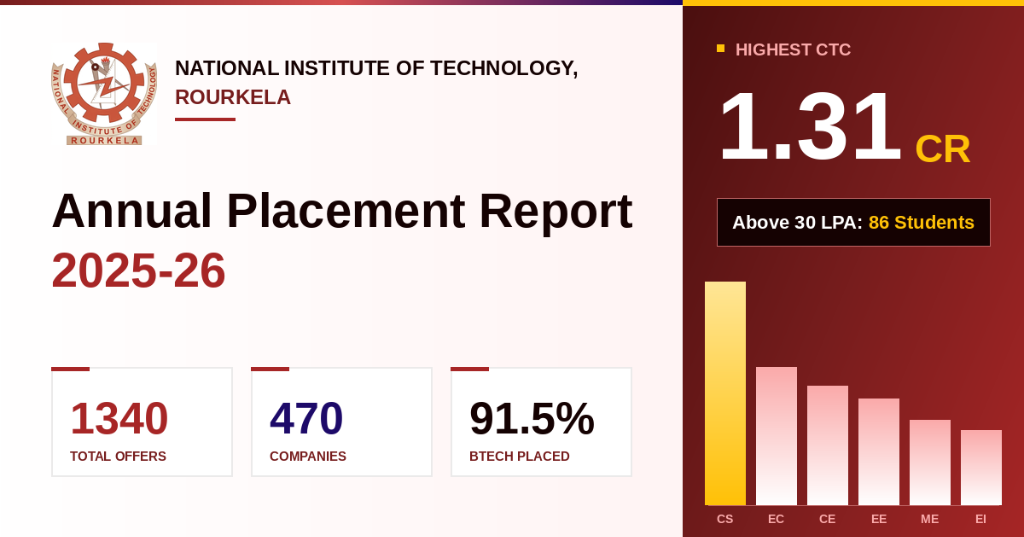
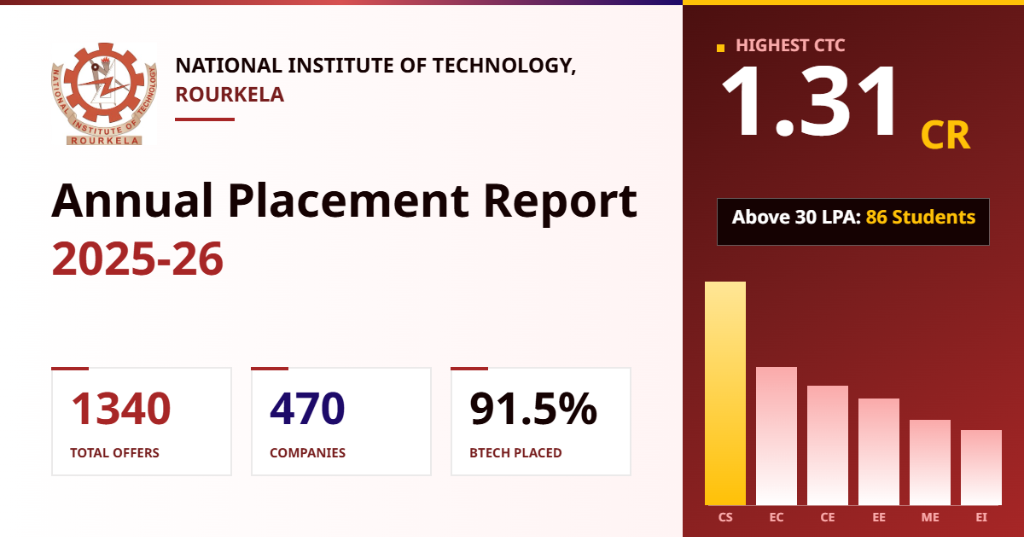
Update placement report thumbnail and replace placement dashboard with version 4

diff --git a/nitrkl/nitr_placement_dashboard.html b/nitrkl/nitr_placement_dashboard.html
@@ -4,11 +4,30 @@
     <meta charset="UTF-8">
     <meta name="viewport" content="width=device-width, initial-scale=1.0">
     <title>NIT Rourkela - Placement Report 2025-26</title>
+
+    <!-- Page thumbnail / link preview -->
+    <meta name="description" content="NIT Rourkela Annual Placement Report 2025-26: highest CTC 1.31 CR, 1340 offers, 470 companies, 91.5% BTech placed.">
+    <meta name="theme-color" content="#771D1D">
[1 lines of base64/hex data omitted]
+
+    <meta property="og:type" content="website">
+    <meta property="og:title" content="NIT Rourkela - Annual Placement Report 2025-26">
+    <meta property="og:description" content="Highest CTC 1.31 CR | 1340 offers | 470 companies | 91.5% BTech placed">
+    <!-- IMPORTANT: once hosted, change this to the full URL, e.g. https://your-site.com/thumbnail.png (link previews need an absolute URL) -->
+    <meta property="og:image" content="thumbnail.png">
+    <meta property="og:image:width" content="1200">
+    <meta property="og:image:height" content="630">
+    <meta property="og:image:alt" content="NIT Rourkela Annual Placement Report 2025-26 with highest CTC 1.31 CR">
+
+    <meta name="twitter:card" content="summary_large_image">
+    <meta name="twitter:title" content="NIT Rourkela - Annual Placement Report 2025-26">
+    <meta name="twitter:description" content="Highest CTC 1.31 CR | 1340 offers | 470 companies | 91.5% BTech placed">
+    <meta name="twitter:image" content="thumbnail.png">
     
-    <!-- Typography: Manrope (UI) + Sora (numbers) -->
+    <!-- Typography: Noto Sans everywhere -->
     <link rel="preconnect" href="https://fonts.googleapis.com">
     <link rel="preconnect" href="https://fonts.gstatic.com" crossorigin>
-    <link rel="stylesheet" href="https://fonts.googleapis.com/css2?family=Manrope:wght@400;500;600;700;800&family=Sora:wght@600;700;800&display=swap">
+    <link rel="stylesheet" href="https://fonts.googleapis.com/css2?family=Noto+Sans:wght@400;500;600;700;800&display=swap">
 
     <!-- Tailwind CSS -->
     <script src="https://cdn.tailwindcss.com"></script>
@@ -24,7 +43,7 @@
             theme: {
                 extend: {
                     fontFamily: {
-                        sans: ['Manrope', 'Arial', 'Helvetica', 'sans-serif'],
+                        sans: ['Noto Sans', 'Arial', 'Helvetica', 'sans-serif'],
                     },
                     colors: {
                         'inclusive': '#FFFFFF',
@@ -69,6 +88,7 @@
         * { border-radius: 0 !important; }
 
         html { scroll-behavior: smooth; }
+        html, body, button, input, select, textarea { font-family: 'Noto Sans', Arial, Helvetica, sans-serif; }
 
         body {
             background-color: #F8F6F6;
@@ -143,7 +163,7 @@
 
         /* numbers */
         .corp-card h4, [data-count] {
-            font-family: 'Sora', 'Manrope', Arial, sans-serif;
+            font-family: 'Noto Sans', Arial, sans-serif;
             font-variant-numeric: tabular-nums;
             letter-spacing: -0.02em;
         }
@@ -230,13 +250,15 @@
 
     <div id="scrollProgress" aria-hidden="true"></div>
 
-    <!-- Return to NIT Rourkela Main Portal -->
-    <div style="background-color: #150202; color: #ffffff; padding: 10px 24px; font-size: 13px; font-weight: 600; display: flex; justify-content: space-between; align-items: center; border-bottom: 2px solid #771D1D;">
-        <a href="index.html" style="color: #FFC107; text-decoration: none; display: inline-flex; align-items: center; gap: 8px;">
-            <i class="fa-solid fa-arrow-left"></i> Return to NIT Rourkela Main Portal
+    <!-- Top Return Navigation Bar -->
+    <div class="w-full bg-[#771D1D] text-white px-4 py-2 flex items-center justify-between shadow-md" style="z-index: 9999; position: relative;">
+        <a href="index.html" class="inline-flex items-center gap-2 text-white hover:text-[#FFC107] font-semibold text-sm transition-colors duration-200">
+            <i class="fa-solid fa-arrow-left"></i>
+            <span>Return to NIT Rourkela Main Portal</span>
         </a>
-        <span style="color: #EBEAEA; opacity: 0.85; font-size: 12px;">Centre for Career Development (CDC) &bull; Annual Placement Report 2025-26</span>
+        <span class="text-xs text-white/80 hidden sm:inline">National Institute of Technology Rourkela &bull; Placement Portal</span>
     </div>
+
 
     <!-- Header Section -->
     <header class="border-b border-linen w-full bg-inclusive">
@@ -446,7 +468,7 @@
         document.addEventListener('DOMContentLoaded', function() {
             // Apply strict color palette to Chart.js global defaults
             Chart.defaults.color = '#150202'; // Deep Earthy Brown
-            Chart.defaults.font.family = "'Manrope', 'Arial', 'Helvetica', sans-serif";
+            Chart.defaults.font.family = "'Noto Sans', 'Arial', 'Helvetica', sans-serif";
             Chart.defaults.font.weight = 'bold';
             
             // Tooltip styling strictly sharp and corporate
@@ -512,7 +534,7 @@
                         const txt = (v * prog).toFixed(Number.isInteger(v) ? 0 : 1);
                         ctx.globalAlpha = Math.pow(prog, 2);
                         ctx.fillStyle = '#150202';
-                        ctx.font = "800 11px 'Sora', 'Manrope', Arial, sans-serif";
+                        ctx.font = "800 11px 'Noto Sans', Arial, sans-serif";
                         ctx.textAlign = 'center';
                         ctx.textBaseline = 'bottom';
                         ctx.fillText(txt, bar.x, bar.y - 6);

diff --git a/nitrkl/placement-report.html b/nitrkl/placement-report.html
@@ -4,11 +4,30 @@
     <meta charset="UTF-8">
     <meta name="viewport" content="width=device-width, initial-scale=1.0">
     <title>NIT Rourkela - Placement Report 2025-26</title>
+
+    <!-- Page thumbnail / link preview -->
+    <meta name="description" content="NIT Rourkela Annual Placement Report 2025-26: highest CTC 1.31 CR, 1340 offers, 470 companies, 91.5% BTech placed.">
+    <meta name="theme-color" content="#771D1D">
[1 lines of base64/hex data omitted]
+
+    <meta property="og:type" content="website">
+    <meta property="og:title" content="NIT Rourkela - Annual Placement Report 2025-26">
+    <meta property="og:description" content="Highest CTC 1.31 CR | 1340 offers | 470 companies | 91.5% BTech placed">
+    <!-- IMPORTANT: once hosted, change this to the full URL, e.g. https://your-site.com/thumbnail.png (link previews need an absolute URL) -->
+    <meta property="og:image" content="thumbnail.png">
+    <meta property="og:image:width" content="1200">
+    <meta property="og:image:height" content="630">
+    <meta property="og:image:alt" content="NIT Rourkela Annual Placement Report 2025-26 with highest CTC 1.31 CR">
+
+    <meta name="twitter:card" content="summary_large_image">
+    <meta name="twitter:title" content="NIT Rourkela - Annual Placement Report 2025-26">
+    <meta name="twitter:description" content="Highest CTC 1.31 CR | 1340 offers | 470 companies | 91.5% BTech placed">
+    <meta name="twitter:image" content="thumbnail.png">
     
-    <!-- Typography: Manrope (UI) + Sora (numbers) -->
+    <!-- Typography: Noto Sans everywhere -->
     <link rel="preconnect" href="https://fonts.googleapis.com">
     <link rel="preconnect" href="https://fonts.gstatic.com" crossorigin>
-    <link rel="stylesheet" href="https://fonts.googleapis.com/css2?family=Manrope:wght@400;500;600;700;800&family=Sora:wght@600;700;800&display=swap">
+    <link rel="stylesheet" href="https://fonts.googleapis.com/css2?family=Noto+Sans:wght@400;500;600;700;800&display=swap">
 
     <!-- Tailwind CSS -->
     <script src="https://cdn.tailwindcss.com"></script>
@@ -24,7 +43,7 @@
             theme: {
                 extend: {
                     fontFamily: {
-                        sans: ['Manrope', 'Arial', 'Helvetica', 'sans-serif'],
+                        sans: ['Noto Sans', 'Arial', 'Helvetica', 'sans-serif'],
                     },
                     colors: {
                         'inclusive': '#FFFFFF',
@@ -69,6 +88,7 @@
         * { border-radius: 0 !important; }
 
         html { scroll-behavior: smooth; }
+        html, body, button, input, select, textarea { font-family: 'Noto Sans', Arial, Helvetica, sans-serif; }
 
         body {
             background-color: #F8F6F6;
@@ -143,7 +163,7 @@
 
         /* numbers */
         .corp-card h4, [data-count] {
-            font-family: 'Sora', 'Manrope', Arial, sans-serif;
+            font-family: 'Noto Sans', Arial, sans-serif;
             font-variant-numeric: tabular-nums;
             letter-spacing: -0.02em;
         }
@@ -230,13 +250,15 @@
 
     <div id="scrollProgress" aria-hidden="true"></div>
 
-    <!-- Return to NIT Rourkela Main Portal -->
-    <div style="background-color: #150202; color: #ffffff; padding: 10px 24px; font-size: 13px; font-weight: 600; display: flex; justify-content: space-between; align-items: center; border-bottom: 2px solid #771D1D;">
-        <a href="index.html" style="color: #FFC107; text-decoration: none; display: inline-flex; align-items: center; gap: 8px;">
-            <i class="fa-solid fa-arrow-left"></i> Return to NIT Rourkela Main Portal
+    <!-- Top Return Navigation Bar -->
+    <div class="w-full bg-[#771D1D] text-white px-4 py-2 flex items-center justify-between shadow-md" style="z-index: 9999; position: relative;">
+        <a href="index.html" class="inline-flex items-center gap-2 text-white hover:text-[#FFC107] font-semibold text-sm transition-colors duration-200">
+            <i class="fa-solid fa-arrow-left"></i>
+            <span>Return to NIT Rourkela Main Portal</span>
         </a>
-        <span style="color: #EBEAEA; opacity: 0.85; font-size: 12px;">Centre for Career Development (CDC) &bull; Annual Placement Report 2025-26</span>
+        <span class="text-xs text-white/80 hidden sm:inline">National Institute of Technology Rourkela &bull; Placement Portal</span>
     </div>
+
 
     <!-- Header Section -->
     <header class="border-b border-linen w-full bg-inclusive">
@@ -446,7 +468,7 @@
         document.addEventListener('DOMContentLoaded', function() {
             // Apply strict color palette to Chart.js global defaults
             Chart.defaults.color = '#150202'; // Deep Earthy Brown
-            Chart.defaults.font.family = "'Manrope', 'Arial', 'Helvetica', sans-serif";
+            Chart.defaults.font.family = "'Noto Sans', 'Arial', 'Helvetica', sans-serif";
             Chart.defaults.font.weight = 'bold';
             
             // Tooltip styling strictly sharp and corporate
@@ -512,7 +534,7 @@
                         const txt = (v * prog).toFixed(Number.isInteger(v) ? 0 : 1);
                         ctx.globalAlpha = Math.pow(prog, 2);
                         ctx.fillStyle = '#150202';
-                        ctx.font = "800 11px 'Sora', 'Manrope', Arial, sans-serif";
+                        ctx.font = "800 11px 'Noto Sans', Arial, sans-serif";
                         ctx.textAlign = 'center';
                         ctx.textBaseline = 'bottom';
                         ctx.fillText(txt, bar.x, bar.y - 6);

diff --git a/dump/nitr_placement_dashboard (4).html b/dump/nitr_placement_dashboard (4).html
@@ -4,11 +4,30 @@
     <meta charset="UTF-8">
     <meta name="viewport" content="width=device-width, initial-scale=1.0">
     <title>NIT Rourkela - Placement Report 2025-26</title>
+
+    <!-- Page thumbnail / link preview -->
+    <meta name="description" content="NIT Rourkela Annual Placement Report 2025-26: highest CTC 1.31 CR, 1340 offers, 470 companies, 91.5% BTech placed.">
+    <meta name="theme-color" content="#771D1D">
[1 lines of base64/hex data omitted]
+
+    <meta property="og:type" content="website">
+    <meta property="og:title" content="NIT Rourkela - Annual Placement Report 2025-26">
+    <meta property="og:description" content="Highest CTC 1.31 CR | 1340 offers | 470 companies | 91.5% BTech placed">
+    <!-- IMPORTANT: once hosted, change this to the full URL, e.g. https://your-site.com/thumbnail.png (link previews need an absolute URL) -->
+    <meta property="og:image" content="thumbnail.png">
+    <meta property="og:image:width" content="1200">
+    <meta property="og:image:height" content="630">
+    <meta property="og:image:alt" content="NIT Rourkela Annual Placement Report 2025-26 with highest CTC 1.31 CR">
+
+    <meta name="twitter:card" content="summary_large_image">
+    <meta name="twitter:title" content="NIT Rourkela - Annual Placement Report 2025-26">
+    <meta name="twitter:description" content="Highest CTC 1.31 CR | 1340 offers | 470 companies | 91.5% BTech placed">
+    <meta name="twitter:image" content="thumbnail.png">
     
-    <!-- Typography: Manrope (UI) + Sora (numbers) -->
+    <!-- Typography: Noto Sans everywhere -->
     <link rel="preconnect" href="https://fonts.googleapis.com">
     <link rel="preconnect" href="https://fonts.gstatic.com" crossorigin>
-    <link rel="stylesheet" href="https://fonts.googleapis.com/css2?family=Manrope:wght@400;500;600;700;800&family=Sora:wght@600;700;800&display=swap">
+    <link rel="stylesheet" href="https://fonts.googleapis.com/css2?family=Noto+Sans:wght@400;500;600;700;800&display=swap">
 
     <!-- Tailwind CSS -->
     <script src="https://cdn.tailwindcss.com"></script>
@@ -24,7 +43,7 @@
             theme: {
                 extend: {
                     fontFamily: {
-                        sans: ['Manrope', 'Arial', 'Helvetica', 'sans-serif'],
+                        sans: ['Noto Sans', 'Arial', 'Helvetica', 'sans-serif'],
                     },
                     colors: {
                         'inclusive': '#FFFFFF',
@@ -69,6 +88,7 @@
         * { border-radius: 0 !important; }
 
         html { scroll-behavior: smooth; }
+        html, body, button, input, select, textarea { font-family: 'Noto Sans', Arial, Helvetica, sans-serif; }
 
         body {
             background-color: #F8F6F6;
@@ -143,7 +163,7 @@
 
         /* numbers */
         .corp-card h4, [data-count] {
-            font-family: 'Sora', 'Manrope', Arial, sans-serif;
+            font-family: 'Noto Sans', Arial, sans-serif;
             font-variant-numeric: tabular-nums;
             letter-spacing: -0.02em;
         }
@@ -438,7 +458,7 @@
         document.addEventListener('DOMContentLoaded', function() {
             // Apply strict color palette to Chart.js global defaults
             Chart.defaults.color = '#150202'; // Deep Earthy Brown
-            Chart.defaults.font.family = "'Manrope', 'Arial', 'Helvetica', sans-serif";
+            Chart.defaults.font.family = "'Noto Sans', 'Arial', 'Helvetica', sans-serif";
             Chart.defaults.font.weight = 'bold';
             
             // Tooltip styling strictly sharp and corporate
@@ -504,7 +524,7 @@
                         const txt = (v * prog).toFixed(Number.isInteger(v) ? 0 : 1);
                         ctx.globalAlpha = Math.pow(prog, 2);
                         ctx.fillStyle = '#150202';
-                        ctx.font = "800 11px 'Sora', 'Manrope', Arial, sans-serif";
+                        ctx.font = "800 11px 'Noto Sans', Arial, sans-serif";
                         ctx.textAlign = 'center';
                         ctx.textBaseline = 'bottom';
                         ctx.fillText(txt, bar.x, bar.y - 6);
